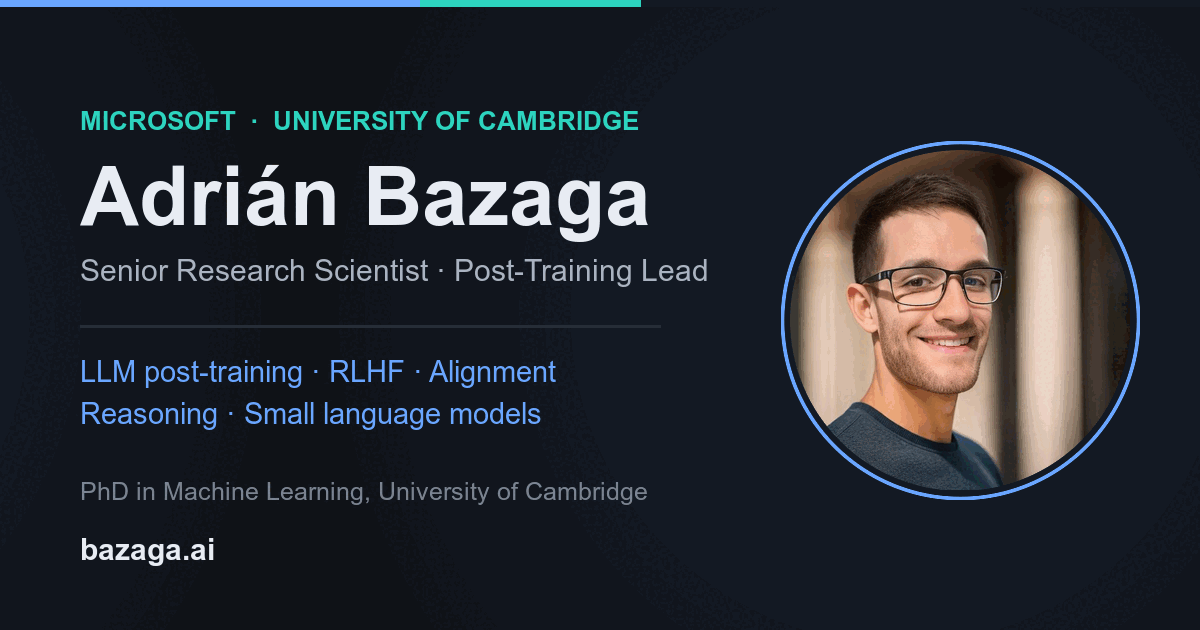
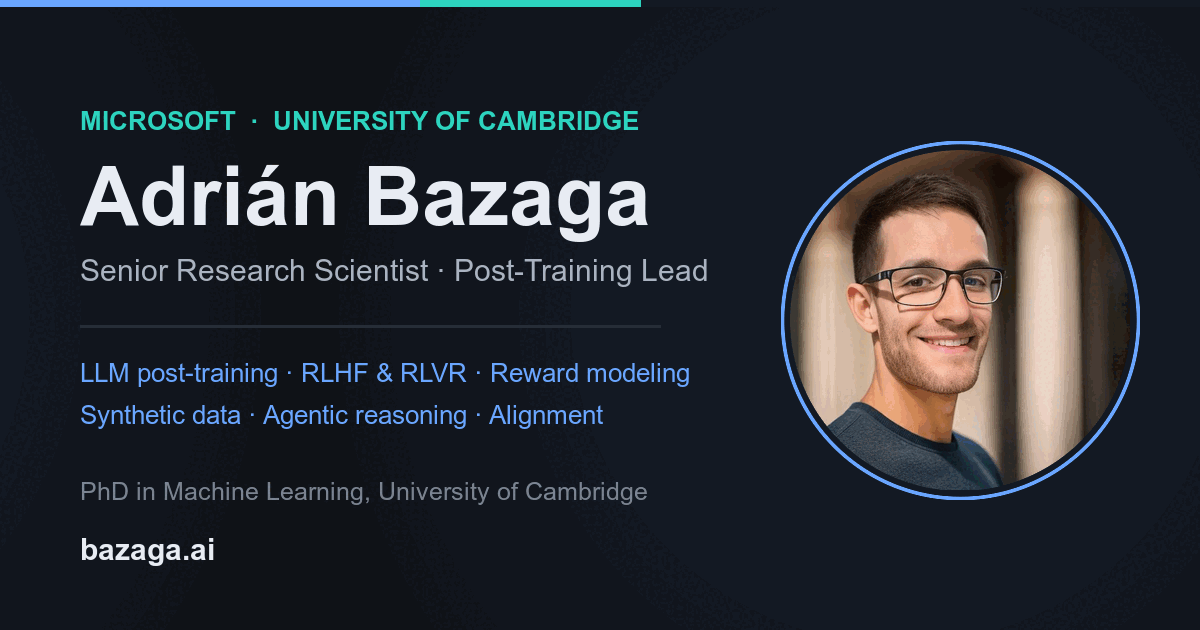
Sharpen post-training copy; add agentic reasoning
Make the specialization explicit and consistent across every surface
instead of the vaguer "data, reinforcement learning, alignment".

- Hero tagline, About, research lead and the Microsoft experience entry
  now name mid-training, synthetic data generation, RLHF & RLVR, reward
  modeling and agentic reasoning
- Realign meta description (159 chars), og/twitter descriptions and the
  JSON-LD Person.description with the same vocabulary
- knowsAbout: add Mid-training, Agentic reasoning, AI agents, Model
  evaluation (18 -> 22 terms)
- Mirror the wording in llms.txt
- Regenerate the social card with the new keyword lines and bump the
  cache key to ?v=2

Changed region(s): [[0.0617, 0.573, 0.5858, 0.6937]]

diff --git a/index.html b/index.html
@@ -1,13 +1,13 @@
 <!DOCTYPE html> <html lang="en"> <head> <meta charset="utf-8"> <meta name="viewport" content="width=device-width, initial-scale=1, shrink-to-fit=no"> <meta http-equiv="X-UA-Compatible" content="IE=edge"> <title>Adrián Bazaga — LLM Post-Training &amp; AI Research, Microsoft</title>
 <meta name="author" content="Adrián Bazaga"/>
-<meta name="description" content="Adrián Bazaga — Senior Research Scientist at Microsoft, leading LLM post-training for Aion Instruct and Mu. PhD in ML from Cambridge. RLHF, alignment, reasoning."/>
+<meta name="description" content="Adrián Bazaga — Senior Research Scientist at Microsoft, leading post-training for Aion Instruct: synthetic data, RLHF/RLVR, reward modeling, agentic reasoning."/>
 <meta property="og:type" content="profile"/>
 <meta property="og:site_name" content="Adrián Bazaga"/>
 <meta property="og:locale" content="en_GB"/>
 <meta property="og:url" content="https://bazaga.ai/"/>
 <meta property="og:title" content="Adrián Bazaga — LLM Post-Training &amp; AI Research, Microsoft"/>
-<meta property="og:description" content="Senior Research Scientist at Microsoft, leading LLM post-training for Aion Instruct and Mu. PhD in Machine Learning from the University of Cambridge."/>
-<meta property="og:image" content="https://bazaga.ai/assets/img/og-card-1200x630.png?v=1"/>
+<meta property="og:description" content="Senior Research Scientist at Microsoft, leading mid-training and post-training for Aion Instruct and Mu: synthetic data generation, RLHF &amp; RLVR, reward modeling, agentic reasoning and alignment."/>
+<meta property="og:image" content="https://bazaga.ai/assets/img/og-card-1200x630.png?v=2"/>
 <meta property="og:image:type" content="image/png"/>
 <meta property="og:image:width" content="1200"/>
 <meta property="og:image:height" content="630"/>
@@ -16,8 +16,8 @@
 <meta property="profile:last_name" content="Bazaga"/>
 <meta name="twitter:card" content="summary_large_image"/>
 <meta name="twitter:title" content="Adrián Bazaga — LLM Post-Training &amp; AI Research, Microsoft"/>
-<meta name="twitter:description" content="Senior Research Scientist at Microsoft, leading LLM post-training for Aion Instruct and Mu. PhD in Machine Learning from the University of Cambridge."/>
-<meta name="twitter:image" content="https://bazaga.ai/assets/img/og-card-1200x630.png?v=1"/>
+<meta name="twitter:description" content="Senior Research Scientist at Microsoft, leading mid-training and post-training for Aion Instruct and Mu: synthetic data generation, RLHF &amp; RLVR, reward modeling, agentic reasoning and alignment."/>
+<meta name="twitter:image" content="https://bazaga.ai/assets/img/og-card-1200x630.png?v=2"/>
 <meta name="twitter:image:alt" content="Adrián Bazaga — Senior Research Scientist and Post-Training Lead at Microsoft"/>
 <link href="https://stackpath.bootstrapcdn.com/bootstrap/4.5.2/css/bootstrap.min.css" rel="stylesheet" integrity="sha512-MoRNloxbStBcD8z3M/2BmnT+rg4IsMxPkXaGh2zD6LGNNFE80W3onsAhRcMAMrSoyWL9xD7Ert0men7vR8LUZg==" crossorigin="anonymous"> <link rel="stylesheet" href="https://cdnjs.cloudflare.com/ajax/libs/mdbootstrap/4.19.1/css/mdb.min.css" integrity="sha512-RO38pBRxYH3SoOprtPTD86JFOclM51/XTIdEPh5j8sj4tp8jmQIx26twG52UaLi//hQldfrh7e51WzP9wuP32Q==" crossorigin="anonymous"/> <link rel="stylesheet" href="https://cdnjs.cloudflare.com/ajax/libs/font-awesome/5.14.0/css/all.min.css" integrity="sha512-1PKOgIY59xJ8Co8+NE6FZ+LOAZKjy+KY8iq0G4B3CyeY6wYHN3yt9PW0XpSriVlkMXe40PTKnXrLnZ9+fkDaog==" crossorigin="anonymous"> <link rel="stylesheet" href="https://cdnjs.cloudflare.com/ajax/libs/academicons/1.9.0/css/academicons.min.css" integrity="sha512-W4yqoT1+8NLkinBLBZko+dFB2ZbHsYLDdr50VElllRcNt2Q4/GSs6u71UHKxB7S6JEMCp5Ve4xjh3eGQl/HRvg==" crossorigin="anonymous"> <link rel="preconnect" href="https://fonts.googleapis.com"> <link rel="preconnect" href="https://fonts.gstatic.com" crossorigin> <link rel="stylesheet" href="https://fonts.googleapis.com/css2?family=Inter:wght@400;500;600&amp;family=Source+Serif+4:opsz,wght@8..60,400;8..60,600&amp;display=swap"> <link rel="icon" href="/assets/img/favicon_a.ico">
 <link rel="apple-touch-icon" href="/assets/img/apple-touch-icon.png">
@@ -36,12 +36,15 @@
       "givenName": "Adrián",
       "familyName": "Bazaga",
       "url": "https://bazaga.ai/",
-      "image": "https://bazaga.ai/assets/img/og-card-1200x630.png?v=1",
+      "image": "https://bazaga.ai/assets/img/og-card-1200x630.png?v=2",
       "jobTitle": "Senior Research Scientist",
-      "description": "Senior Research Scientist and Post-Training Lead at Microsoft, working on large language model post-training, alignment and reasoning. PhD in Machine Learning from the University of Cambridge.",
+      "description": "Senior Research Scientist and Post-Training Lead at Microsoft, leading mid-training and post-training for the language models that ship in Windows: synthetic data generation, reinforcement learning (RLHF and RLVR), reward modeling, agentic reasoning, alignment and evaluation. PhD in Machine Learning from the University of Cambridge.",
       "knowsAbout": [
         "Large language models",
         "LLM post-training",
+        "Mid-training",
+        "Agentic reasoning",
+        "AI agents",
         "Reinforcement learning from human feedback (RLHF)",
         "Direct preference optimization (DPO)",
         "Reinforcement learning with verifiable rewards (RLVR)",
@@ -50,6 +53,7 @@
         "Reward modeling",
         "AI alignment",
         "Reasoning in language models",
+        "Model evaluation",
         "Small language models",
         "On-device AI",
         "Natural language processing",
@@ -104,7 +108,7 @@
       "isPartOf": { "@id": "https://bazaga.ai/#website" },
       "about": { "@id": "https://bazaga.ai/#person" },
       "mainEntity": { "@id": "https://bazaga.ai/#person" },
-      "primaryImageOfPage": "https://bazaga.ai/assets/img/og-card-1200x630.png?v=1",
+      "primaryImageOfPage": "https://bazaga.ai/assets/img/og-card-1200x630.png?v=2",
       "inLanguage": "en-GB"
     }
   ]
@@ -138,7 +142,7 @@
         <h1>Adrián Bazaga</h1>
         <p class="rx-hero-role">Senior Research Scientist · Tech Lead (SLM) · <strong>Post-Training Lead</strong></p>
         <p class="rx-hero-affil">Microsoft &nbsp;•&nbsp; PhD, University of Cambridge</p>
-        <p class="rx-hero-tagline">I lead post-training for the language models that ship in Windows, spanning data, reinforcement learning, alignment, and evaluation.</p>
+        <p class="rx-hero-tagline">I lead mid-training and post-training for the language models that ship in Windows, spanning synthetic data generation, reinforcement learning (RLHF &amp; RLVR), reward modeling, agentic reasoning, alignment, and evaluation.</p>
         <div class="rx-social">
           <a href="mailto:%61%64%72%62%7A%67@%67%6D%61%69%6C.%63%6F%6D" title="Email" aria-label="Email"><i class="fas fa-envelope"></i></a>
           <a href="https://scholar.google.com/citations?user=lrOLKgQAAAAJ" title="Google Scholar" aria-label="Google Scholar" target="_blank" rel="noopener noreferrer"><i class="ai ai-google-scholar"></i></a>
@@ -159,8 +163,8 @@
     <div class="rx-wrap">
       <h2 class="rx-h">About me</h2>
       <div class="rx-readable">
-        <p class="rx-lead">I’m a Senior Research Scientist, Tech Lead (SLM) and Post-Training Lead at <a href="https://www.microsoft.com/applied-sciences/people/adrian-bazaga" target="_blank" rel="noopener noreferrer">Microsoft</a>, working on large language models (LLMs) and natural language processing (NLP). I teach language models to follow instructions, reason more reliably, and stay helpful and safe, and I’m broadly interested in how much capability can be packed into models small enough to run on your own device.</p>
-        <p>I lead post-training for <strong>Aion Instruct</strong>, Microsoft’s foundational language model for Windows, <a href="https://www.youtube.com/live/FFMm454fxNA?t=268s" target="_blank" rel="noopener noreferrer">unveiled by Satya Nadella at Microsoft Build 2026</a>. I own the end-to-end stack from data preparation → pre-training → mid-training → post-training → evaluation, advancing state-of-the-art foundational language models at global scale. My post-training work spans supervised fine-tuning (SFT), synthetic data generation, direct preference optimization (DPO), reinforcement learning (RLVR and RLHF), and reward modeling, driving human alignment across response quality, conciseness, factuality, and safety.</p>
+        <p class="rx-lead">I’m a Senior Research Scientist, Tech Lead (SLM) and Post-Training Lead at <a href="https://www.microsoft.com/applied-sciences/people/adrian-bazaga" target="_blank" rel="noopener noreferrer">Microsoft</a>, working on large language models (LLMs) and natural language processing (NLP). I teach language models to follow instructions, reason and act more reliably as agents, and stay helpful and safe, and I’m broadly interested in how much capability can be packed into models small enough to run on your own device.</p>
+        <p>I lead post-training for <strong>Aion Instruct</strong>, Microsoft’s foundational language model for Windows, <a href="https://www.youtube.com/live/FFMm454fxNA?t=268s" target="_blank" rel="noopener noreferrer">unveiled by Satya Nadella at Microsoft Build 2026</a>. I own the end-to-end stack from data preparation → pre-training → mid-training → post-training → evaluation, advancing state-of-the-art foundational language models at global scale. My post-training work spans supervised fine-tuning (SFT), synthetic data generation, direct preference optimization (DPO), reinforcement learning (RLVR and RLHF), reward modeling, and agentic reasoning, driving human alignment across response quality, conciseness, factuality, and safety.</p>
         <p>I also led post-training for <a href="https://blogs.windows.com/windowsexperience/2025/06/23/introducing-mu-language-model-and-how-it-enabled-the-agent-in-windows-settings/" target="_blank" rel="noopener noreferrer">Mu</a>, Microsoft’s blazing-fast on-device SLM, and built the <a href="https://blogs.windows.com/windowsexperience/2025/05/06/introducing-a-new-generation-of-windows-experiences/" target="_blank" rel="noopener noreferrer">Windows Settings agent</a>, now live on Copilot+ devices.</p>
         <p>I hold a Ph.D. in Machine Learning from the <strong>University of Cambridge</strong>, advised by <a href="https://scholar.google.com/citations?user=4YhNJBEAAAAJ&amp;hl=en" target="_blank" rel="noopener noreferrer">Prof. Pietro Liò</a> and <a href="https://scholar.google.com/citations?user=ucG_41AAAAAJ&amp;hl=en" target="_blank" rel="noopener noreferrer">Prof. Gos Micklem</a>, with work published at ICLR, ICML, ACL and EMNLP as well as in Nature journals. Previously I interned at Microsoft Research and Amazon AGI, and spent several years at the intersection of artificial intelligence (AI) and biology across startups and research labs. Originally from <svg class="rx-flag" viewBox="0 0 6 4" role="img" aria-label="Spain"><rect width="6" height="4" fill="#AA151B"></rect><rect y="1" width="6" height="2" fill="#F1BF00"></rect></svg> Spain.</p>
         <div class="rx-link-btns" style="margin-top:6px">
@@ -179,7 +183,7 @@
         </div>
         <a class="rx-see-all" href="/research/">All publications &rarr;</a>
       </div>
-      <p class="rx-section-lead">My research advances the capabilities of foundational language models, spanning post-training, alignment, reasoning, and efficiency, with broader interests across machine learning such as Geometric &amp; Graph Deep Learning and ML for Science. The works below are a selected snapshot, not a complete picture of everything I’m currently exploring.</p>
+      <p class="rx-section-lead">My research advances the capabilities of foundational language models, spanning mid-training and post-training, synthetic data generation, reinforcement learning (RLHF &amp; RLVR), reward modeling, agentic reasoning, alignment, and efficiency, with broader interests across machine learning such as Geometric &amp; Graph Deep Learning and ML for Science. The works below are a selected snapshot, not a complete picture of everything I’m currently exploring.</p>
 
       <div class="rx-theme">
         <h3 class="rx-theme-title"><span class="rx-theme-num">1</span> LLM Training &amp; Data-Efficient Learning</h3>
@@ -325,7 +329,7 @@
           <div class="rx-exp-item">
             <div class="rx-exp-role">Senior Research Scientist, Post-Training Lead</div>
             <div class="rx-exp-meta"><span class="rx-exp-org">Microsoft</span> · Jan 2025 – Present · London, UK</div>
-            <p>Lead post-training for Aion Instruct and Mu: SFT, DPO, RLVR, RLHF, reward modeling, and synthetic data generation, shipped to millions of Windows devices.</p>
+            <p>Lead mid-training and post-training for Aion Instruct and Mu: synthetic data generation, SFT, DPO, RLVR, RLHF, reward modeling, and agentic reasoning, shipped to millions of Windows devices.</p>
           </div>
           <div class="rx-exp-item">
             <div class="rx-exp-role">Research Scientist</div>

diff --git a/research/index.html b/research/index.html
@@ -7,7 +7,7 @@
 <meta property="og:url" content="https://bazaga.ai/research/"/>
 <meta property="og:title" content="Publications — Adrián Bazaga | LLM, ML &amp; AI Research"/>
 <meta property="og:description" content="Peer-reviewed research on large language models, post-training, NLP, graph deep learning and machine learning for science. ICLR, ICML, ACL, EMNLP and Nature."/>
-<meta property="og:image" content="https://bazaga.ai/assets/img/og-card-1200x630.png?v=1"/>
+<meta property="og:image" content="https://bazaga.ai/assets/img/og-card-1200x630.png?v=2"/>
 <meta property="og:image:type" content="image/png"/>
 <meta property="og:image:width" content="1200"/>
 <meta property="og:image:height" content="630"/>
@@ -15,7 +15,7 @@
 <meta name="twitter:card" content="summary_large_image"/>
 <meta name="twitter:title" content="Publications — Adrián Bazaga | LLM, ML &amp; AI Research"/>
 <meta name="twitter:description" content="Peer-reviewed research on large language models, post-training, NLP, graph deep learning and machine learning for science. ICLR, ICML, ACL, EMNLP and Nature."/>
-<meta name="twitter:image" content="https://bazaga.ai/assets/img/og-card-1200x630.png?v=1"/>
+<meta name="twitter:image" content="https://bazaga.ai/assets/img/og-card-1200x630.png?v=2"/>
 <meta name="twitter:image:alt" content="Adrián Bazaga — Senior Research Scientist and Post-Training Lead at Microsoft"/>
 <link href="https://stackpath.bootstrapcdn.com/bootstrap/4.5.2/css/bootstrap.min.css" rel="stylesheet" integrity="sha512-MoRNloxbStBcD8z3M/2BmnT+rg4IsMxPkXaGh2zD6LGNNFE80W3onsAhRcMAMrSoyWL9xD7Ert0men7vR8LUZg==" crossorigin="anonymous"> <link rel="stylesheet" href="https://cdnjs.cloudflare.com/ajax/libs/mdbootstrap/4.19.1/css/mdb.min.css" integrity="sha512-RO38pBRxYH3SoOprtPTD86JFOclM51/XTIdEPh5j8sj4tp8jmQIx26twG52UaLi//hQldfrh7e51WzP9wuP32Q==" crossorigin="anonymous"/> <link rel="stylesheet" href="https://cdnjs.cloudflare.com/ajax/libs/font-awesome/5.14.0/css/all.min.css" integrity="sha512-1PKOgIY59xJ8Co8+NE6FZ+LOAZKjy+KY8iq0G4B3CyeY6wYHN3yt9PW0XpSriVlkMXe40PTKnXrLnZ9+fkDaog==" crossorigin="anonymous"> <link rel="stylesheet" href="https://cdnjs.cloudflare.com/ajax/libs/academicons/1.9.0/css/academicons.min.css" integrity="sha512-W4yqoT1+8NLkinBLBZko+dFB2ZbHsYLDdr50VElllRcNt2Q4/GSs6u71UHKxB7S6JEMCp5Ve4xjh3eGQl/HRvg==" crossorigin="anonymous"> <link rel="preconnect" href="https://fonts.googleapis.com"> <link rel="preconnect" href="https://fonts.gstatic.com" crossorigin> <link rel="stylesheet" href="https://fonts.googleapis.com/css2?family=Inter:wght@400;500;600&amp;family=Source+Serif+4:opsz,wght@8..60,400;8..60,600&amp;display=swap"> <link rel="icon" href="/assets/img/favicon_a.ico">
 <link rel="apple-touch-icon" href="/assets/img/apple-touch-icon.png">
